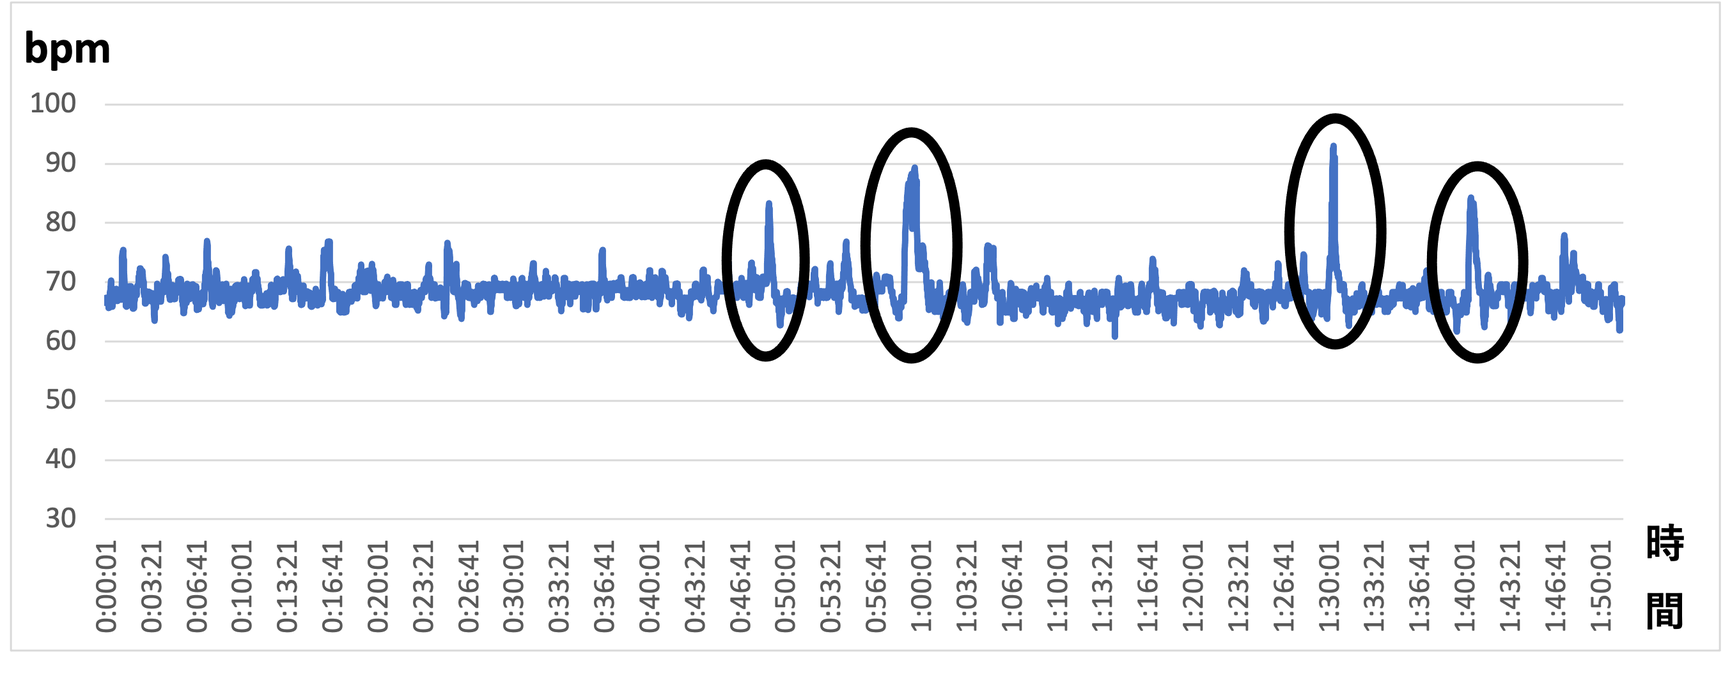
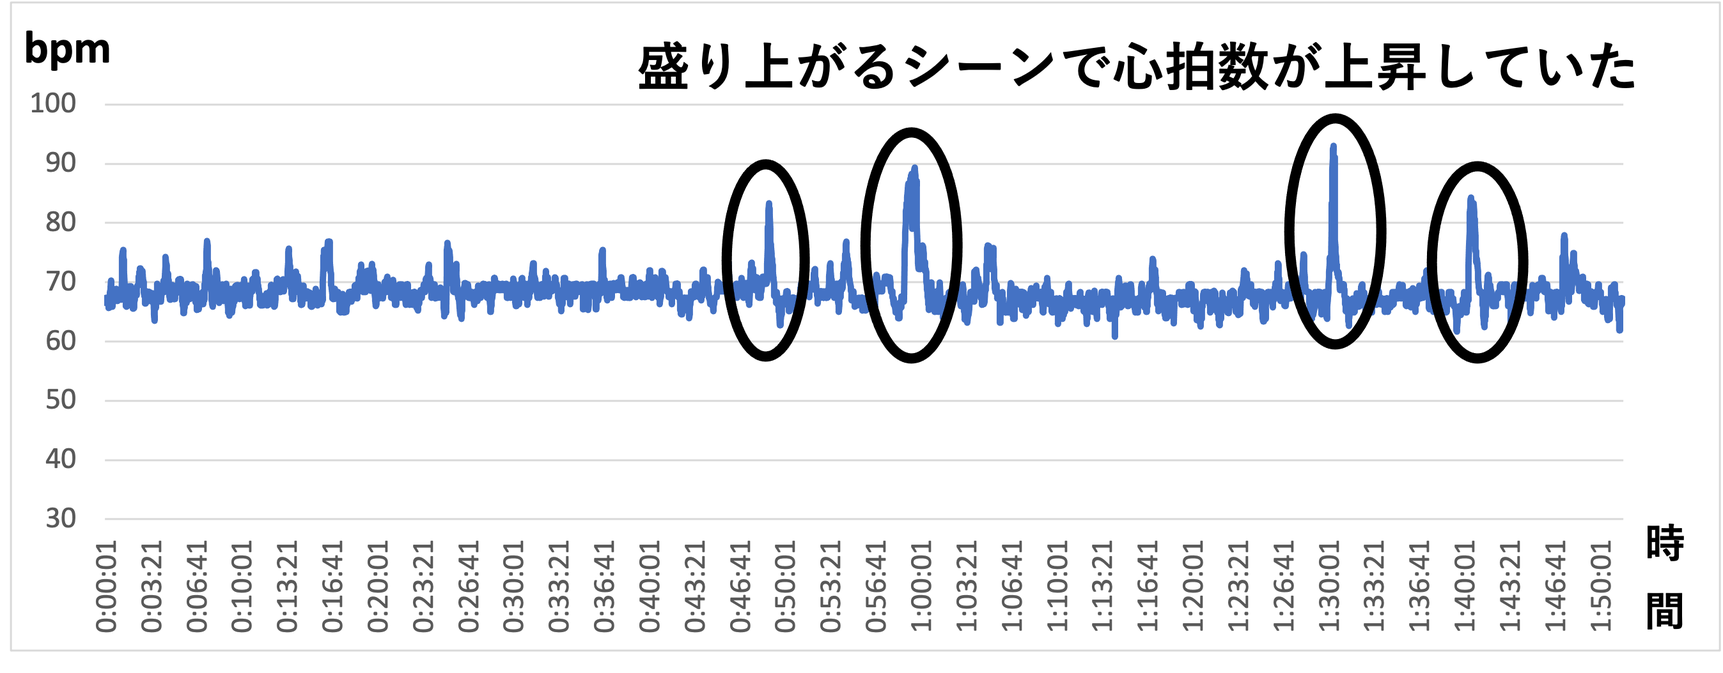
ukai012902

Changed region(s): [[0.374, 0.0607, 0.9662, 0.1518]]

diff --git a/chap2.tex b/chap2.tex
@@ -1,7 +1,7 @@
 \thispagestyle{myheadings}
 \chapter{関連研究}
 本章では本研究に関連するコンテンツについての研究や生体データを用いた研究，
-重畳提示手法の研究，体験拡張研究の４つのテーマについて紹介する．本研究と比較し関連性や新規性を述べる．
+重畳提示手法の研究，体験拡張研究の4つのテーマについて紹介する．本研究と比較し関連性や新規性を述べる．
 
 
 
@@ -22,7 +22,7 @@
 また瞳孔に注目し人が覚醒しているかを推定する研究や．人が居眠り運転しているのを推定する研究もある\cite{doukou}．
 コンテンツ視聴時の心拍数や皮膚電気抵抗からコンテンツの質を測る研究\cite{situ}や，生体情報を分析し人の行動を予測する研究\cite{eigo}もある．
 これらの研究より生体データから感情が読み取れる有効性が示されている．
-図\ref{seitaidata}のようにさまざまな生体データを用いることによって人の楽しいや辛いなどといったいくつもの感情を推定するのが可能である．
+図\ref{seitaidata}のようにさまざまな生体データを用いて人の楽しいや辛いなどといったいくつもの感情を推定できる．
 そこで本研究ではコンテンツを視聴している時の生体データを取得し，
 生体データから人の感情を読み取りコンテンツを視聴している時のどの部分が盛り上がっているポイントかを推定する．
 コンテンツに対し抱いた感情をエフェクトという形で重畳し，コンテンツに新たな楽しみ方を加える．
@@ -30,42 +30,61 @@
 \begin{figure}[H]
     \centering
     \includegraphics[width=8cm]{images/chapter2/heart.png}
-    \caption{生体データからさまざまな感情を取得 : 感情体験メーケティング支援}
+    \caption{生体データからさまざまな感情を取得\cite{kanjoutaiken}}
     \label{seitaidata}
 \end{figure}
 
 
 \section{生体情報を基にフィードバックする研究}
 
-生体データを用いて被験者に学習支援をする研究がある\cite{seitai1，seitai2，seitai3}．生体データの使用によって正確に支援ができるからである．
+生体データを用いて被験者に学習支援をする研究がある\cite{seitai1,seitai2,seitai3}．生体データの使用によって正確に支援ができるからである．
 また生体情報を用いるIoT機器も数多く存在する．生体データを活用してライフケア，ヘルスサービスの実現をしている．
-例として図\ref{iot}に示す．生体データを収集することでその人にあった適切なフィードバックが可能である．生体情報を
-用いて車の居眠り運転の防止する研究\cite{unten}や，体調を生体データによって管理し事前に病気を予防する研究\cite{kibun，yobou，yobou2}はいくつかある．
-それらに対し我々の研究では生体情報を用いてコンテンツにエフェクトを重畳する新規性がある．
+例として図\ref{iot}に示す．生体データを収集しその人にあった適切なフィードバックが可能である．生体情報を
+用いて車の居眠り運転の防止する研究\cite{unten}や，体調を生体データによって管理し事前に病気を予防する研究\cite{kibun,yobou,yobou2}はいくつかある．
+それらに対し我々の研究では生体データをコンテンツに適応する．
 
 \begin{figure}[H]
     \centering
     \includegraphics[width=15cm]{images/chapter2/body_img02.png}
-    \caption{ウェアラブルデバイスを用いた生体情報のIot : NECソリューションイノベータ}
+    \caption{ウェアラブルデバイスを用いた生体情報のIoT\cite{nec}}
     \label{iot}
 \end{figure}
 
 
 \section{コンテンツにエフェクトを重畳して面白さを増幅する研究}
 コンテンツにエフェクトを重畳して面白さを増幅する研究について述べる。
-視線検出装 置を用いてユーザがディスプレイ上の画像において任意の点に注目した際に， 奥行きにフォーカスされた 画像を映像に随時反映し奥行き感を強化する手法が提案されている\cite{shamo1}\cite{shamo2} ．
-しかし、提案システムはあらかじめ用意した最大 256 枚からなる画像を利用しており， 手軽にコンテンツの視聴体験を拡張， 増幅できるとは言い難いため\cite{shamo3}，本研究はエフェクト重畳提示手法を使用した． 
+視線検出装置を用いてユーザがディスプレイ上の画像において任意の点に注目した際に，奥行きにフォーカスされた画像を映像に随時反映し奥行き感を強化する手法が提案されている\cite{shamo1}\cite{shamo2} ．
+しかし、提案システムはあらかじめ用意した最大256枚からなる画像を利用しており，手軽にコンテンツの視聴体験を拡張，増幅できるとは言い難いため\cite{shamo3}，本研究はエフェクト重畳提示手法を使用した． 
 
 \section{中心視と周辺視の持つ特性の研究}
 中心視と周辺視の持つ特性の研究について述べる．
 動画コンテンツの周辺にカメラ映像を配置し、動画コンテンツを見ている人の周辺視に何気なく現実世界を提示し，視聴中の動画コンテンツに連動し、
 周辺に提示されているカメラ映像に対してエフェクトを付与してカメラ映像内の現実世界を変容させ動画視聴中のユーザの周辺視野を刺激し、動画コンテンツに対する迫力感や恐怖感などを増幅する研究がある\cite{shamo4}．
-周辺視では複雑な文字などの図形を部分的にしか認識ができず、中心に近づくほど、より複雑な図形の知覚が可能であり\cite{shamo5}，CFF （明滅する光のちらつき感がちょうど消失する周波数）で示される中心視と周辺視の感度差においては、
-光のちらつきを最も敏感に感じ取るのは中心ではなく周辺視を明らかにしている\cite{shamo6}．光のちらつきを周辺視がより敏感に感じられるという特性から，周辺視を刺激しコンテンツ視聴体験の拡張を目指し周辺視が人間の知覚能力に及ぼす影響について示している\cite{shamo7}．
-周辺視野ほど明るいものがより明るく見え、暗いものはより暗く見える，そして輝度対比効果が強くなる明らかにしているため\cite{shamo8}，動画の周辺にエフェクトを提示し，コンテンツに新たな効果を加える．
+周辺視では複雑な文字などの図形を部分的にしか認識ができず、中心に近づくほど、より複雑な図形の知覚が可能であり\cite{shamo5}，CFF（明滅する光のちらつき感がちょうど消失する周波数）で示される中心視と周辺視の感度差においては、
+光のちらつきを最も敏感に感じ取るのは中心視ではなく周辺視であると判明している\cite{shamo6}．光のちらつきを周辺視がより敏感に感じられるという特性から，周辺視を刺激しコンテンツ視聴体験の拡張を目指し周辺視が人間の知覚能力に及ぼす影響について示している\cite{shamo7}．
+周辺視野ほど明るいものがより明るく見え，暗いものはより暗く見えるという輝度対比効果について明らかにしているため \cite{shamo8}，我々の研究では動画の周辺にエフェクトを提示し，コンテンツに新たな効果を加える．
 
-\section{ユーザの体験を拡張する研究}
-ユーザの体験を拡張するという研究について述べる．Focus Plus Context Displayは，高解像度のディスプレイを中心視野用に，低解像度のプロジェクタを周辺視野用にと組み合わせ，低コストで大型ディスプレイを視聴しているのと近い状況を構築する手法を提案している\cite{shamo9}．
-また視覚的刺激の提示の有効性はディスプレイ上への提示に限らず，ulumiRoomは，ゲームプレイ時のディスプレイ周辺の壁や床に，プロジェクタからゲームに対応したコンテンツの投影により，臨場感や迫力の増強する手法を実現し\cite{shamo10}，
-低解像度 LED マトリクスを使用し、適切なオプティカルフローを周辺視に提示をおこない，速度感を提示する手法を実現している\cite{shamo11}．ディスプレイの四周にLED アレイを配置し，ユーザの周辺視野へ動きの提示により，スピード感を増強させるシステムなどを実現し，
-LED 点滅パターンの制御をおこない，動きを提示しユーザの感じるスピード感の増強を狙った研究である\cite{shamo12}．本研究は，出力装置を用いず周辺視野を刺激し，動画視聴に新たな効果を加える．
+\section{ユーザの体験を拡張する研究}     
+ユーザの体験を拡張するという研究について述べる.FocusPlusContextDisplayは，
+高解像度のディスプレイを中心視野用に，低解像度のプロジェクタを周辺視野用にと組み合わせ，
+低コストで大型ディスプレイを視聴しているのと近い状況を構築する手法を提案している\cite{shamo9}.
+また視覚的刺激の提示の有 効性はディスプレイ上への提示に限らず，ulumiRoom は，ゲームプレイ時のディスプレイ周辺の壁や床に,
+プロジェクタからゲームに対応したコンテンツの投影により，臨場感や迫力の増強する手法を実現し \cite{shamo10}，低解像度LEDマトリクスを使用し、
+適切なオプティカルフローを周辺視に提示をおこない，速度 感を提示する手法を実現している \cite{shamo11}.ディスプレイの四周にLEDアレイを配置し，
+ユーザの周辺視野へ動きの提示により，スピード感を増強させるシステムなどを実現し，LED点滅パターンの制御をおこない，
+動きを提示しユーザの感じるスピード感の増強を狙った研究である\cite{shamo12}.
+また，自宅で4DX体験が可能な映像に合わせて温風や冷風を噴射するVortxは，
+映像中に炎が吹き出すシーンで温風が噴射され映像の炎を熱いと感じれ，
+空を飛ぶシーンでは冷風を噴射させ空気の抵抗/圧力を感じ取れるデバイスである(図\ref{vortx})．
+Vortxの再生装置としてWindowsPCが必要であるが特別な装置やアプリケーションは不要で，USBでPCと接続するのみとなっている．
+画面に再生されているYouTubeやNetflix,ブルーレイドライブで再生される映像,
+ネット対戦ゲーム等々,PCのモニターに表示されている映像に対して
+特許取得済みEnvironmentalExperience(EX)アルゴリズムによってリアルタイムで分析/認識して即座に対応が可能である\cite{vortx}．
+本研究は，出力装置を用いず周辺視野を刺激し，動画視聴に新たな効果を加える. 
+
+\begin{figure}[H]
+  \centering
+  \includegraphics[width=15cm]{images/chapter2/vortx.png}
+  \caption{4D体験可能なデバイス：Vortx}
+  \label{vortx}
+\end{figure}

diff --git a/chap4.tex b/chap4.tex
@@ -3,7 +3,7 @@
 
 収集した心拍データの心拍数上昇箇所の抽出処理が適切なのか，また表示したエフェクトが視聴者にはどのように感じるのかを評価するため実験を行う．
 まずエフェクト重畳前の映画を視聴してもらった．安静にした状態で腕にスマートウォッチを取り付け，
-映画を見る1分前から心拍数の取得を始め映画が終わるまでを計測した．環境は自宅でも気軽に臨場感が味わえることが目的なので，
+映画を見る1分前から心拍数の取得を始め映画が終わるまでを計測した．環境は自宅でも気軽に臨場感が味わえるのが目的なので，
 普段映画を自宅で視聴する時と同じ環境で視聴した．次にエフェクトを重畳した映画も視聴してもらい，視聴後のアンケートも行った．
 
 \section{心拍データの心拍数上昇箇所の抽出処理の評価と考察}
@@ -39,7 +39,7 @@
 また，エフェクトを表示する時間fromからtoも閾値を超えた瞬間から下がるまでを記録できていた．
 しかし人によっては心拍数が常に一定の人や変化が 激しい人などさまざまなためその全てに対応ができていなかった．
 人によっては上昇箇所がたくさんあり，盛り上がりのシーン以外でも反応してしまった（図\ref{kekka}）．
-また心拍数の変化が少ない人では全く心拍数の上昇箇所を抜き出すことができなかった．心拍数が上昇している箇所をうまく抜き出せていない映画では，
+また心拍数の変化が少ない人では全く心拍数の上昇箇所を抜き出すのができなかった．心拍数が上昇している箇所をうまく抜き出せていない映画では，
 抽出処理した心拍データを1つのJSONデータにまとめる際に混ざってしまいうまく抜き出せている心拍データだけを反映するのができていなかった．
 
 
@@ -85,10 +85,10 @@
  
 \subsection{エフェクト重畳提示についての評価}
  
-エフェクト重畳された動画と何も重畳していない動画を視聴し，適切に提示できていたかを評価する．評価する項目として，性別，年齢，エフェクトの評価，エフェクトの意見/感想の4項目である．
-Actionのエフェクトでは「キングコング/ 髑髏島の巨神」を視聴し5の評価を4件，4の評価を6件の結果が得られた．意見/感想では，緊迫感が表されていて良いと思った，赤色のエフェクトのみなのか，もう少しエフェクトを細くしてもいいかも，映像が見づらくなる時がある，動きが重なってしまう，急に消えてしまう，心拍が高くなっているのが分かりやすいがあげられた．Animeのエフェクトでは「SPY×FAMILY/エピソード6」を視聴し5の評価を3件，4の評価を7件の結果が得られた．意見/感想では，効果線として合うシーンに使えれば良い印象，効果線をかぶせるのは面白いと感じた，効果線の主張を少し弱くする，線が多すぎる，主張を弱くする，白と黒の線が気になる，ジャンルがあっていれば面白くなるかもがあげられた．Horrorのエフェクトでは「嘘喰い」を視聴し4の評価を4件，3の評価を6件の結果が得られた．意見/感想では，見えなくなった，見やすくなっていた，もう少し見やすくしてほしい，映像の邪魔になっている，黒の方がいい，逆に怖くしたいがあげられた．その他意見/感想で，映画やアニメは完成されたものが上映されているので，あまり主張が強すぎると逆に違和感が出てくるかもしれないと思った．映像では意見が難しい点や実際に体験したら意見が変化すると感じる点があげられる．
+エフェクト重畳された動画と何も重畳していない動画を視聴し，適切に提示できていたかを評価する.評価する項目として,性別,年齢,エフェクトの評価,エフェクトの意見/感想の4項目である．
+Actionのエフェクトでは「キングコング/ 髑髏島の巨神」を視聴し5の評価を4件，4の評価を6件の結果が得られた．意見/感想では，緊迫感が表されていて良いと思った，赤色のエフェクトのみなのか，もう少しエフェクトを細くしてもいいかも，映像が見づらくなる時がある，動きが重なってしまう，急に消えてしまう，心拍が高くなっているのが分かりやすいがあげられた．Animeのエフェクトでは「SPY×FAMILY/エピソード6」を視聴し5の評価を3件，4の評価を7件の結果が得られた．意見/感想では，効果線として合うシーンに使えれば良い印象，効果線をかぶせるのは面白いと感じた，効果線の主張を少し弱くする，線が多すぎる，主張を弱くする，白と黒の線が気になる，ジャンルがあっていれば面白くなるかもがあげられた．Horrorのエフェクトでは「嘘喰い」を視聴し4の評価を4件，3の評価を6件の結果が得られた．意見/感想では,見えなくなった,見やすくなっていた,もう少し見やすくしてほしい,映像の邪魔になっている,黒の方がいい,逆に怖くしたいがあげられた．その他意見/感想で，映画やアニメは完成されたものが上映されているので，あまり主張が強すぎると逆に違和感が出てくるかもしれないと思った．映像では意見が難しい点や実際に体験したら意見が変化すると感じる点があげられる．
  
 \subsection{エフェクト重畳提示についての考察}
-Actionの評価の原因として，意見/感想の赤色のエフェクトのみなのは赤色のみの表示になっているためアクション映画の中でも赤色のエフェクト以外を選択できるようにエフェクト選択する際に，色設定の項目を追加する．もう少しエフェクトを細くする/見づらくなる時があるでは，AftetEffectsで両脇の横サイズをせばめる．動きが重くなってしまう/急に消えてしまうは，AftetEffectsでモーションブラーを追加しフェードアウトを追加することで解決すると考える．
-Animeの評価の原因として，意見/感想の効果線として合うシーンに使えれば良い印象/ジャンルがあっていれば面白くなるかもはアニメの中でもコメディやSFなど多くのジャンルがあるため，アニメのエフェクトの種類を増やす．効果線の主張を少し弱くする/線が多すぎるは，Illastratorで線の幅と本数を減らす，白と黒の線が気になるは，効果線の効果として必要であるためエフェクトのジャンルと種類を増やすことで解決すると考える．
-Horrorの評価の原因として，意見/感想の見えなくなった/もう少し見やすくしてほしい/映像の邪魔になっているは，AftetEffectsで全体にフラクタルノイズをかけているが，四隅に設置することで映像視聴に影響が出ないようにする．黒の方がいいは，ホラーの中でも明るい動画のときに使用できるように色の種類を選択可能にする．逆に怖くしたいは，ホラーの目的とは別になるがさらに恐怖感を体験できる目的として制作することで解決できると考える．
+Actionの評価の原因として，意見/感想の赤色のエフェクトのみなのは赤色のみの表示になっているためアクション映画の中でも赤色のエフェクト以外を選択できるようにエフェクト選択する際に，色設定の項目を追加する．もう少しエフェクトを細くする/見づらくなる時があるでは，AftetEffectsで両脇の横サイズをせばめる．動きが重くなってしまう/急に消えてしまうは，AftetEffectsでモーションブラーを追加しフェードアウトを追加で解決すると考える．
+Animeの評価の原因として，意見/感想の効果線として合うシーンに使えれば良い印象/ジャンルがあっていれば面白くなるかもはアニメの中でもコメディやSFなど多くのジャンルがあるため，アニメのエフェクトの種類を増やす．効果線の主張を少し弱くする/線が多すぎるは，Illastratorで線の幅と本数を減らす，白と黒の線が気になるは，効果線の効果として必要であるためエフェクトのジャンルと種類を増やし解決すると考える．
+Horrorの評価の原因として，意見/感想の見えなくなった/もう少し見やすくしてほしい/映像の邪魔になっているは，AftetEffectsで全体にフラクタルノイズをかけているが，四隅に設置し映像視聴に影響が出ないようにする．黒の方がいいは，ホラーの中でも明るい動画のときに使用できるように色の種類を選択可能にする．逆に怖くしたいは，ホラーの目的とは別になるが，さらに恐怖感を体験できる目的として制作を行い解決できると考える．

diff --git a/chap5.tex b/chap5.tex
@@ -4,10 +4,10 @@
 今回コンテンツ視聴時の生体データを収集し，コンテンツにエフェクトを重畳するシステムを提案した．
 コロナ禍の影響で自宅で過ごす時間が増えコンテンツを視聴する機会が増えた．
 しかし既存のコンテンツでは映画館などといった屋外施設のような映像体験は得られない．
-そこでコンテンツにより臨場感などを味わうことを目的に本システムを開発した．
+そこでコンテンツにより臨場感などを味わうのを目的に本システムを開発した．
 作成したシステムはコンテンツ視聴時の生体データを収集し盛り上がっている箇所を推定、抽出しコンテンツに重畳できるデータに変換する．
 そのデータをもとにコンテンツへエフェクトを重畳をする．コンテンツ毎に生体データを収集し，
-それぞれのコンテンツに合ったエフェクトを重畳するのでよりコンテンツを楽しむことが可能になる．
+それぞれのコンテンツに合ったエフェクトを重畳するのでよりコンテンツを楽しむのが可能になる．
 
 本研究ではスマートウォッチを使用し生体データとして心拍数を取得した．またコンテンツを映画にした．
 映画を視聴している時の心拍数を計測し，心拍数が上昇している箇所を抜き出す．抜き出したデータを基にエフェクトを映画画面に重畳する．
@@ -15,7 +15,7 @@
 本システムにおいて収集した心拍データの心拍数上昇箇所の抽出方法が適切だったか，
 重畳するエフェクトは映画に迫力や臨場感を加えれたか評価するため評価実験を行った．評価実験の方法として，
 まずエフェクト重畳前の映画を視聴してもらった．安静にした状態で腕にスマートウォッチを取り付け，
-映画を見る1分前から心拍数の取得を始め映画が終わるまでを計測した．環境は自宅でも気軽に臨場感が味わえることが目的なので，
+映画を見る1分前から心拍数の取得を始め映画が終わるまでを計測した．環境は自宅でも気軽に臨場感が味わえるのが目的なので，
 普段映画を自宅で視聴する時と同じ環境で視聴した．次にエフェクトを重畳した映画も視聴してもらい，視聴後のアンケートも行った．
 
 評価実験を通して心拍数上昇箇所の抽出処理における課題点，コンテンツへ重畳するエフェクトの問題点が明らかとなった．
@@ -28,12 +28,12 @@
 心拍データ処理の課題として挙げられるのは，
 心拍数上昇箇所を抽出するときに体を動かしただけやくしゃみをしたなどの映画の盛り上がりとは関係ないところでも心拍数が上昇しており，
 そのノイズを除去するのができていなかった．また人によって心拍数の変動が様々であるため全ての人に対応できる処理方法ではなかった．
-前者に対応するため心拍数上昇箇所の抽出処理をするときに最初の１分間を安静時の心拍数としたが，安静時の心拍数を常に更新することで解決すると考える．
+前者に対応するため心拍数上昇箇所の抽出処理をするときに最初の１分間を安静時の心拍数としたが，安静時の心拍数を常に更新し解決すると考える．
 心拍数が盛り上がる前後では心拍数は比較的落ちつていたため，この落ち着いている場所で安静時の心拍数の平均を取る．
 この平均を使い閾値を設定し，さまざまな心拍数のパターンに対応する．
 
 後者の問題として，心拍数上昇箇所の抽出処理した後のデータをエフェクトを重畳するのに適したデータにするため1つのJSONデータに足していくだけであった．
-複数人が同じ箇所で反応していたところのみ最後の1つのデータに追加していくことでノイズを除去したり対策可能である．
+複数人が同じ箇所で反応していたところのみ最後の1つのデータに追加していく方法でノイズを除去したり対策可能である．
 少ない人数間での比較だったため将来的にはより多くのデータを集める必要がある．
 また，本研究では生体データとして心拍数を利用したが今後は額から出る汗や目の動きなどにも注目し，
 よりコンテンツ視聴時の感情を取得する必要がある．本研究ではリアルタイムでのデータ処理は行わなかった．
@@ -41,7 +41,7 @@
 評価実験を行った環境は本研究では考慮しなかったが，コンテンツ視聴時の周りの環境も含めた評価実験が必要である．
 
 コンテンツへのエフェクト提示の課題として挙げられるのは，処理したデータを手動でデータ移行，エフェクト提示の際にレベルごとに分けていているためダイナミックなエフェクト重畳ができず，細かな心拍変化に対応できていない．評価実験からの意見/感想の反映が挙げられる．
-処理したデータを手動でデータ移行は，サバー側からElectronのデータベース上に計測され1つのデータにまとめられたものをアップデートすることでリアルタイムの心拍数表示が可能になりエフェクトを最新の取得データで提示することが可能になる．
-エフェクト提示の際のレベルごとの提示は，データ移行をリアルタイムに送信できるようになることで，視聴者の心拍データを処理し提示することが可能になりダイナミックなエフェクト提示は可能になり，細かな心拍変化にも対応が解決できる．評価実験からの意見/感想の反映では，エフェクトジャンルの追加，エフェクトの種類/色を選択の追加項目を増やす，エフェクトの変更/修正はAftetEffects，Illastratorで修正を行い，再度評価実験を行うことで解決できる．
+処理したデータを手動でデータ移行は，サバー側からElectronのデータベース上に計測され1つのデータにまとめられたものをアップデートを行い，リアルタイムの心拍数表示が可能になりエフェクトを最新の取得データで提示が可能になる．
+エフェクト提示の際のレベルごとの提示は，データ移行をリアルタイムに送信できるようになり，視聴者の心拍データを処理し提示が可能になりダイナミックなエフェクト提示は可能になり，細かな心拍変化にも対応が解決できる．評価実験からの意見/感想の反映では，エフェクトジャンルの追加，エフェクトの種類/色を選択の追加項目を増やす，エフェクトの変更/修正はAftetEffects，Illastratorで修正を行い，再度評価実験を行い解決できる．
 
 
